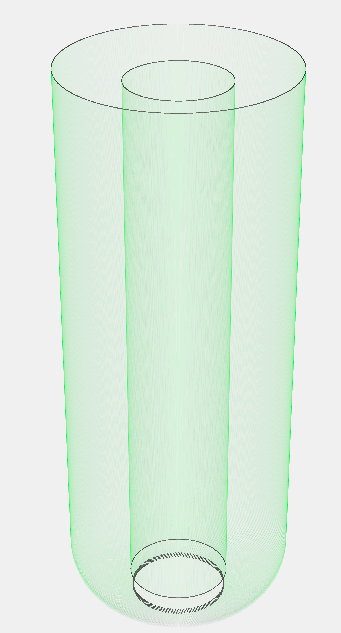
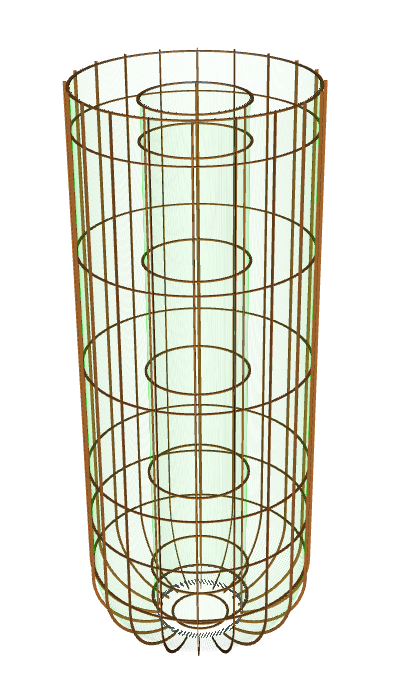
docs: update for fiber_support

diff --git a/docs/source/description.md b/docs/source/description.md
@@ -131,9 +131,9 @@ This is shown on the left figure of the rendering below.
 
 &nbsp;
 
-## Fiber's and SiPMs
+## Fibers and SiPMs
 
-The fiber shroud's for the LAr readout are shown in the right figure above.
+The fiber shrouds for the LAr readout are shown in the right figure above.
 
 As mentioned in {doc}`runtime-cfg` there are two modes for the optical fibers,
 either individual fibers or a segmented option.
@@ -166,7 +166,12 @@ fibers.
 
 The SiPMs are named after the **detector name** (ie `S001`), and there are also
 physical volumes of a wrapping around the SiPMs with names `{NAME}_wrap` (where
-`{NAME}` is the SiPM name).
+`{NAME}` is the SiPM name). This wrapping does not fully correspond to the
+wrapping used in the real experiment, however.
+
+The copper support structures holding the fiber shrouds is named
+`fiber_support_outer` and `fiber_support_inner` for the outer and inner fiber
+barrels. These volumes are implemented as one large solid containing all parts.
 
 ## Wavelength shifting reflector
 
